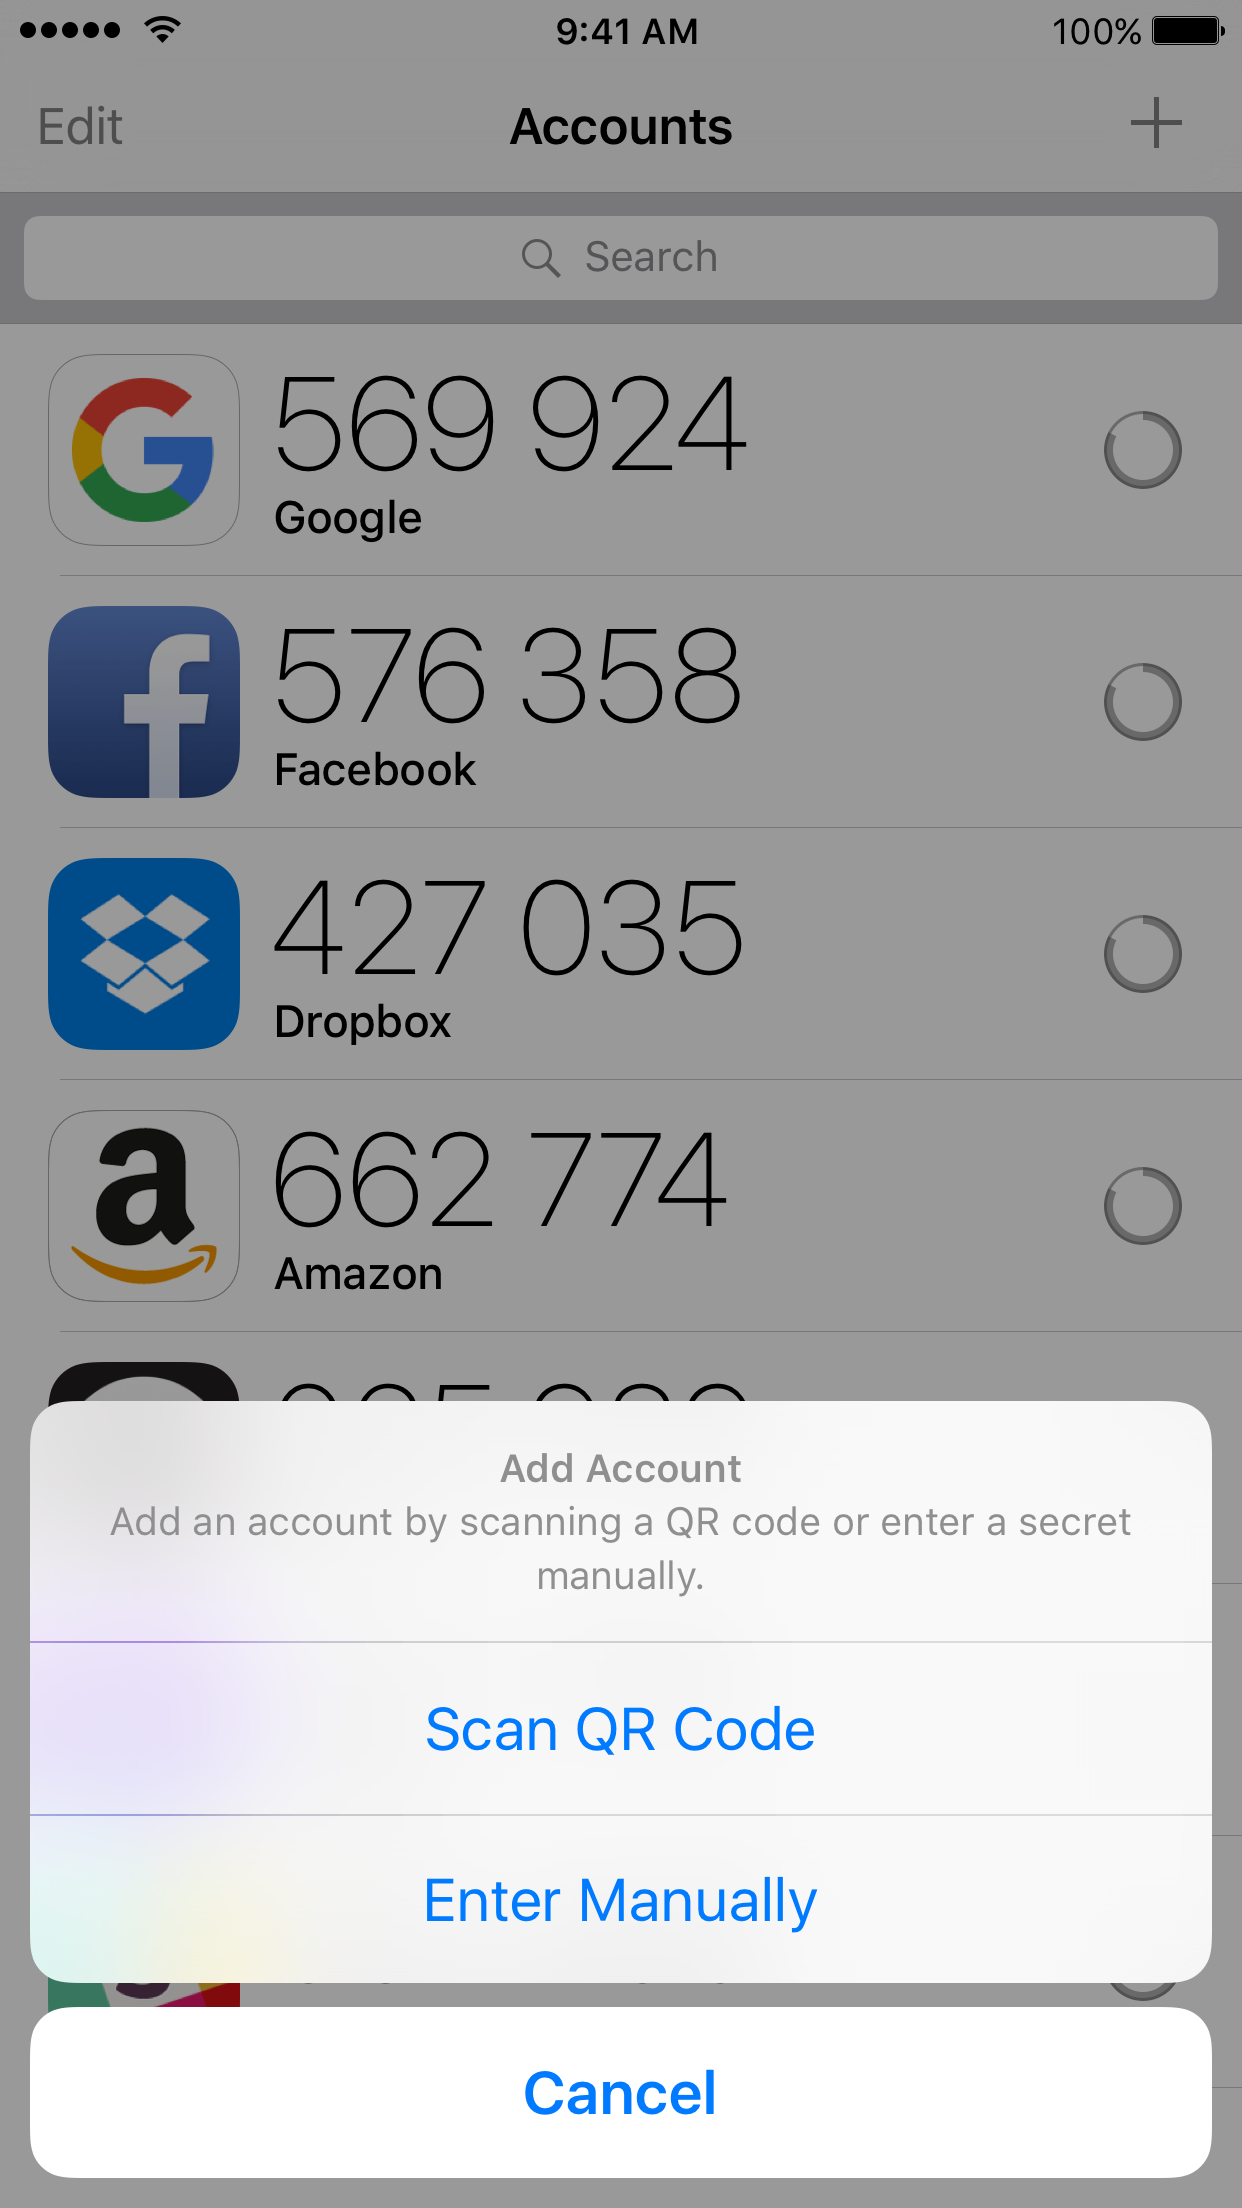
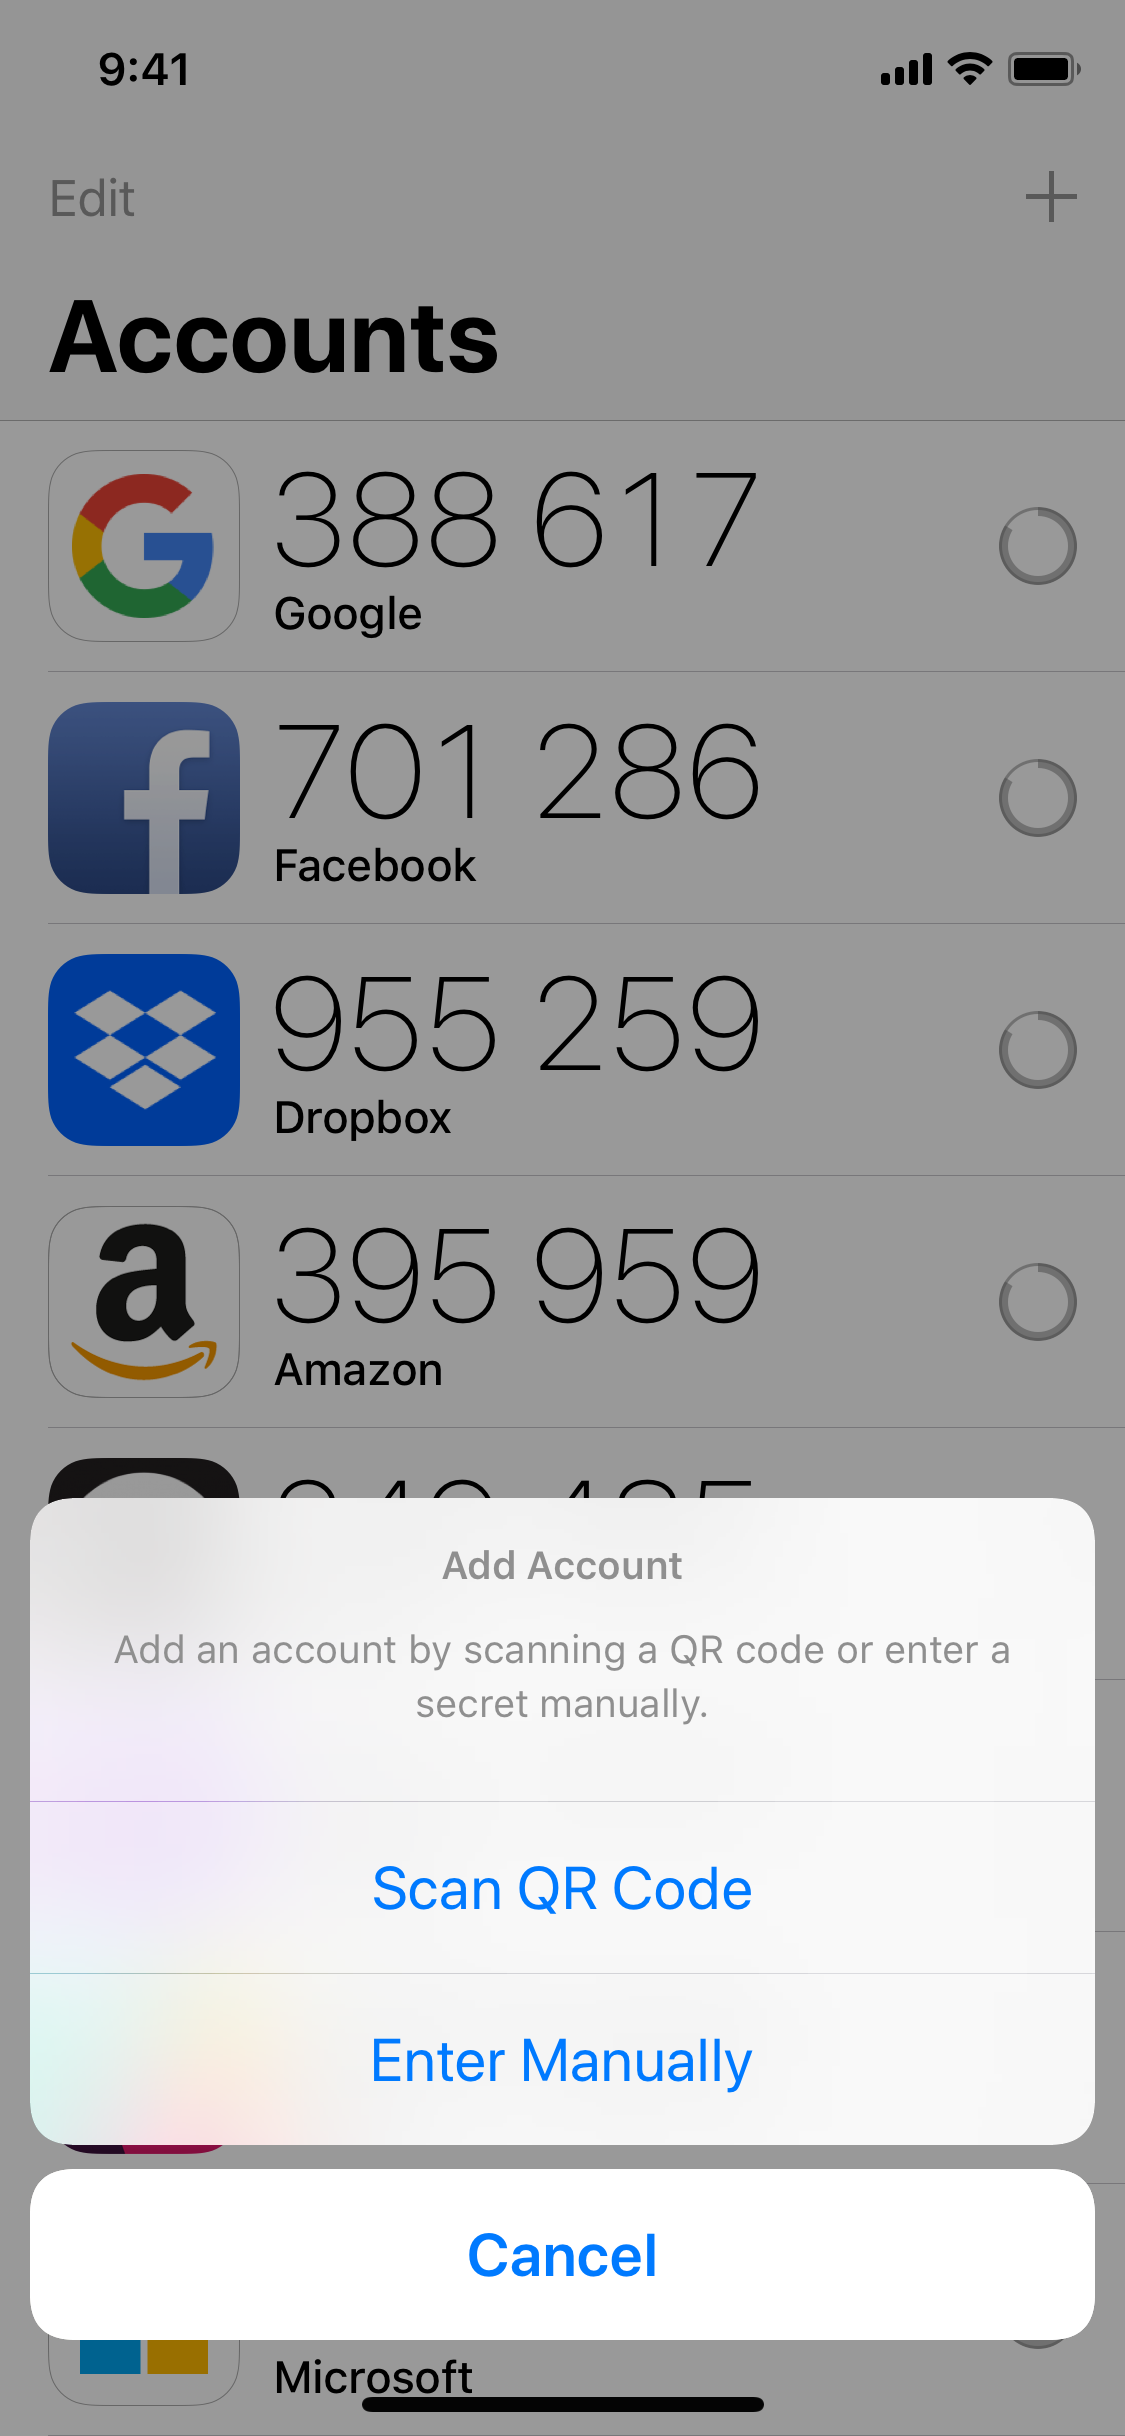
Update screenshots

diff --git a/public/main.css b/public/main.css
@@ -133,7 +133,7 @@ section h1 + ol {
 
 @media (min-width: 880px) {
   .screenshots img {
-    height: 12.4em;
+    height: 15.4em;
   }
 }
 
